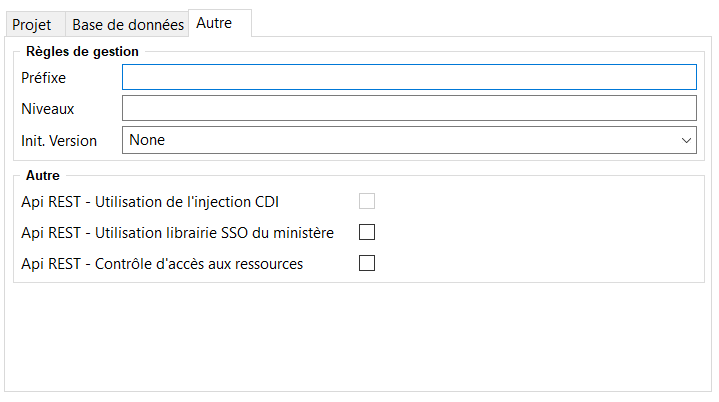
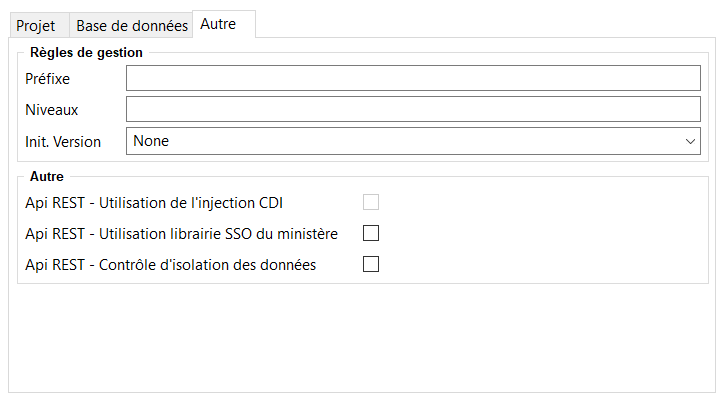
Modifications sur le paragraphe idor...

Changed region(s): [[0.0, 0.0, 0.9791, 0.7164], [0.0, 0.9552, 0.9791, 0.9851]]

diff --git a/pacman-backend.html b/pacman-backend.html
@@ -121,7 +121,7 @@ span.linenos.special { color: #000000; background-color: #ffffc0; padding-left: 
 <li>11/05/2026 : Ajouts : Génération des tests fonctionnels d'API.</li>
 <li>24/05/2026 : Ajouts : Complétion du stockage S3 avec versionning/retention/immutabilité.</li>
 <li>09/06/2026 : Ajouts : Mise en place des traitements asynchrones.</li>
-<li>07/07/2026 : Ajouts : Protection des accès (IDOR)</li>
+<li>07/07/2026 : Ajouts : Protection des paramètres (IDOR)</li>
 </ul>
 <hr/>
 <h2 id="introduction">🚀 Introduction</h2>
@@ -4864,20 +4864,23 @@ Au niveau de l'implémentation pour la récupération du document, on peut remar
 <div align="center">
 <img alt="Architecture S3" src="images/pcm-soa-s3-impl.png" width="500"/>
 </div>
-<h4 id="protection-des-acces-idor">Protection des accès (IDOR)</h4>
+<h4 id="controle-disolation-des-donnees">Contrôle d'isolation des données</h4>
 <p>Une vulnérabilité fréquente des applications Web consiste à faire confiance aux identifiants transmis par le client (URI, paramètres de requête ou corps de requête) sans vérifier que la ressource demandée appartient bien au périmètre de données de l'utilisateur connecté. Ce type de faille est connu sous le nom d'IDOR (Insecure Direct Object Reference) ou plus généralement BOLA (Broken Object Level Authorization) pour les API REST. </p>
 <p>Un scénario typique est le suivant : un utilisateur authentifié consulte la liste de ses contrats et ouvre le contrat n°2358478 via l'URL "<em>/contracts/2358478</em>". S'il modifie manuellement cette URL en "<em>/contracts/2358479</em>" et que le serveur se contente d'effectuer une recherche par identifiant ("<em>findById(2358479)</em>"), il peut, avec un peu de chance, accéder au contrat d'un autre utilisateur. Il ne s'agit pas d'un problème de droits fonctionnels (l'utilisateur est correctement authentifié et possède bien le droit de consulter ses contrats) mais d'un défaut de cloisonnement des données qui permet de sortir du périmètre qui lui est normalement associé.</p>
-<p>Dans <strong>Pacman</strong>, trois solutions sont proposées afin de pallier à cette problématique : </p>
+<p>Dans <strong>Pacman</strong>, quatre solutions sont proposées afin de pallier à cette problématique : </p>
 <p>• Utiliser des identifiants de type UUID (Universally Unique Identifier) en lieu et place d'identifiants numériques séquentiels. Contrairement à un identifiant auto-incrémenté, un UUID est pratiquement impossible à deviner ou à énumérer, ce qui réduit considérablement les risques d'accès opportuniste par simple modification d'une URI. Ainsi, une requête du type "<em>/contrats/2358478</em>" est beaucoup plus facilement falsifiable qu'une requête utilisant un identifiant tel que "<em>/contrats/550e8400-e29b-41d4-a716-446655440000</em>". </p>
 <p>L'utilisation d'UUID constitue donc une première ligne de défense efficace contre les attaques d'énumération d'identifiants (ID Guessing). Toutefois, cette technique ne doit pas être considérée comme un mécanisme de contrôle d'accès. Si un UUID est divulgué ou intercepté, un utilisateur malveillant pourrait toujours tenter de l'utiliser pour accéder à une ressource qui ne lui appartient pas. Les vérifications de cohérence entre la ressource demandée et le périmètre de l'utilisateur demeurent donc indispensables. </p>
 <p>En conséquence, l'utilisation d'UUID doit être envisagée comme une mesure de durcissement complémentaire, venant réduire la surface d'attaque, mais ne se substituant jamais aux mécanismes d'isolation des données et aux contrôles d'autorisation mis en œuvre par l'application.</p>
 <p>• Une autre approche consiste à ne plus utiliser directement les méthodes génériques proposées par les repositories Spring Data JPA, telles que "<em>findById()</em>", "<em>findAll()</em>" ou "<em>findAllById()</em>", mais à réécrire systématiquement les requêtes afin d'y intégrer les critères d'isolation des données. Chaque accès à une ressource est alors effectué au moyen d'une requête spécifique incluant les contraintes de sécurité nécessaires, par exemple en ajoutant un filtre sur l'utilisateur connecté, le locataire (tenant), l'organisation ou tout autre critère définissant le périmètre des données accessibles. </p>
 <p>Cette approche offre un niveau de sécurité très élevé, puisqu'il devient impossible de récupérer une ressource sans appliquer explicitement les règles d'isolation. En contrepartie, elle augmente significativement la quantité de code à produire et à maintenir. </p>
 <p>Les méthodes génériques des repositories ne peuvent plus être utilisées, ce qui conduit à réécrire un grand nombre de requêtes, parfois très proches les unes des autres. Cette solution est particulièrement adaptée aux applications manipulant des données sensibles ou exposées sur Internet, mais elle nécessite une discipline de développement rigoureuse pour imposer systématiquement ces règles d'accès.</p>
+<p>❗ Attention cependant, dans une architecture REST stateless, il est tentant d'utiliser directement les informations contenues dans le mécanisme d'authentification (JWT, jeton OAuth2, SSO, etc.) pour appliquer les règles d'isolation des données. Cette approche présente toutefois une limite importante : les informations portées par le jeton ne correspondent généralement pas aux identifiants métier utilisés par l'application.</p>
+<p>Avant de pouvoir filtrer les données, il est donc souvent nécessaire d'établir une correspondance entre l'identité authentifiée et le périmètre métier réellement autorisé. Cette opération peut nécessiter une ou plusieurs consultations de la base de données ou d'un service externe afin de déterminer les informations d'isolation pertinentes, ce qui est particulièrement coûteux.</p>
+<p>• Une solution permettant de conserver une architecture REST stateless tout en simplifiant les contrôles d'isolation consiste à introduire un jeton interne dédié exclusivement à l'isolation des données. Après authentification de l'utilisateur (SSO, OAuth2, OpenID Connect, etc.), l'application détermine une seule fois le périmètre de données autorisé (identifiants internes, tenant, organisation, établissements, ou tout autre élément nécessaire aux contrôles de cohérence) puis génère un jeton interne signé contenant ces informations. Ce jeton est ensuite transmis par le client à chaque appel REST, en complément ou indépendamment du jeton d'authentification. Chaque requête dispose ainsi immédiatement des informations nécessaires à l'application des règles d'isolation, sans nécessiter de consultation systématique de la base de données pour reconstruire le contexte. Cette approche permet de conserver les bénéfices d'une architecture stateless tout en découplant les mécanismes d'authentification des mécanismes d'isolation des données. Elle impose en revanche de garantir l'intégrité, l'authenticité et, si nécessaire, la durée de validité de ce jeton interne afin d'éviter toute falsification ou utilisation au-delà de son périmètre temporel.</p>
 <p>• <strong>Pacman</strong> propose une option de génération permettant de renforcer automatiquement ce cloisonnement des données. Lorsqu'elle est activée, le générateur ne considère plus l'identifiant reçu comme une information suffisante pour accéder à une ressource. Toutes les opérations d'accès aux données (consultation, modification, suppression, etc.) sont générées de manière à vérifier que l'objet recherché appartient bien au contexte de l'utilisateur connecté. </p>
 <p>Lorsque cette relation de rattachement peut être déduite du modèle (par exemple un contrat rattaché à un client, lui-même associé à l'utilisateur), les requêtes générées sont automatiquement filtrées afin que seules les données appartenant au périmètre de l'utilisateur puissent être retournées. Ainsi, une tentative de modification d'identifiant dans une URI ne permet plus d'accéder à une ressource étrangère, même si son identifiant est connu ou deviné.</p>
 <p>Cette protection est volontairement distincte de la gestion des autorisations métier. Les rôles, profils, habilitations ou permissions définissent ce qu'un utilisateur est autorisé à faire (consulter, créer, modifier ou supprimer un type de ressource). L'isolation des données, quant à elle, garantit que les ressources manipulées appartiennent bien au périmètre de cet utilisateur. Ces deux mécanismes sont complémentaires : une application peut parfaitement vérifier les rôles tout en restant vulnérable aux attaques par modification d'identifiant si elle ne contrôle pas également la cohérence des données accédées.</p>
-<p>❗ Pour activer cette option il est nécessaire de cocher la case "<em>Contrôle d'accès aux ressource</em>" au niveau de l'onglet "<em>Autre</em>" du formulaire de création du projet. Cette option peut aussi être retrouvée au niveau du fichier de configuration <strong>Pacman</strong> (<em>Project.properties</em>) :  </p>
+<p>❗ Pour activer cette option il est nécessaire de cocher la case "<em>Contrôle d'isolation des données</em>" au niveau de l'onglet "<em>Autre</em>" du formulaire de création du projet. Cette option peut aussi être retrouvée au niveau du fichier de configuration <strong>Pacman</strong> (<em>Project.properties</em>) :  </p>
 <div class="codehilite"><pre><span></span><code><span class="c1"># Flag indiquant si le projet ajoute un contrôle sur les paramètres rest</span>
 <span class="na">project.params.control.enabled</span><span class="w"> </span><span class="o">=</span><span class="w"> </span><span class="s">true</span>
 </code></pre></div>
@@ -6180,6 +6183,6 @@ Run<span class="w"> </span><span class="sb">`</span>npm<span class="w"> </span>a
 <span class="c1">// End of user code</span>
 </code></pre></div>
 </main>
-<nav class="local-toc"><ul><li><a href="#introduction">🚀 Introduction</a></li><li><a href="#plugin-et-architecture-hexagonale">🧩 Plugin et architecture hexagonale</a></li><ul><li><a href="#plugin-pacman">Plugin Pacman</a></li><li><a href="#architecture-hexagonale">Architecture hexagonale</a></li><li><a href="#pacman-et-lhexagonal">Pacman et l'hexagonal</a></li></ul><li><a href="#installation">🛠 Installation</a></li><ul><li><a href="#prerequis">Prérequis</a></li><li><a href="#plugins-externes">Plugins externes</a></li><li><a href="#plugin-pacman_1">Plugin Pacman</a></li></ul><li><a href="#creation-du-projet">☕ Création du projet</a></li><ul><li><a href="#wizard-de-creation">Wizard de création</a></li><li><a href="#cas-projet-fournisseur">Cas projet fournisseur</a></li><li><a href="#cas-projet-client-springboot">Cas projet client (SpringBoot)</a></li><li><a href="#cas-projet-client-react">Cas projet client (React)</a></li></ul><li><a href="#fichiers-generes">📝 Fichiers Générés</a></li><ul><li><a href="#cas-projet-fournisseur_1">📁 Cas projet fournisseur</a></li><li><a href="#cas-projet-client-springboot_1">📁 Cas projet client (SpringBoot)</a></li><li><a href="#cas-projet-client-react_1">📁 Cas projet client (React)</a></li></ul><li><a href="#fichiers-de-configuration">📝 Fichiers de configuration</a></li><ul><li><a href="#cas-projet-fournisseur_2">📁 Cas projet fournisseur</a></li><ul><li><a href="#applicationproperties">application.properties</a></li><li><a href="#api-de-sante">Api de santé</a></li><li><a href="#open-api">Open Api</a></li><li><a href="#uris">URIs</a></li><li><a href="#serveur-sso">Serveur SSO</a></li><li><a href="#serveur-http">Serveur HTTP</a></li><li><a href="#logging">Logging</a></li><li><a href="#les-profils">Les profils</a></li><li><a href="#cache">Cache</a></li><li><a href="#circuit-breaker">Circuit-breaker</a></li><li><a href="#coffre-fort">Coffre-fort</a></li><li><a href="#datasources">Datasources</a></li><li><a href="#stockage-s3">Stockage S3</a></li><li><a href="#librairie-sso-du-ministere">Librairie SSO du ministère</a></li><li><a href="#testsproperties">tests.properties</a></li></ul><li><a href="#cas-projet-client-springboot_2">📁 Cas projet client (SpringBoot)</a></li><ul><li><a href="#applicationproperties_1">application.properties</a></li></ul><li><a href="#cas-projet-client-react_2">📁 Cas projet client (React)</a></li><ul><li><a href="#npmignore">.npmignore</a></li><li><a href="#npmrc">.npmrc</a></li><li><a href="#packagejson">package.json</a></li><li><a href="#tsconfigbuildjson">tsconfig.build.json</a></li><li><a href="#tsconfigjson">tsconfig.json</a></li></ul><li><a href="#securisation-de-la-configuration">🔑 Sécurisation de la configuration</a></li><ul><li><a href="#les-variables-denvironnement">Les variables d'environnement</a></li><li><a href="#externaliser-la-configuration">Externaliser la configuration</a></li><li><a href="#utiliser-un-coffre-fort">Utiliser un coffre-fort</a></li></ul></ul><li><a href="#gestion-des-imports">📦 Gestion des imports</a></li><li><a href="#cas-projet-fournisseur_3">📁 Cas projet fournisseur</a></li><ul><li><a href="#generation-de-la-persistance">🛢 Génération de la persistance</a></li><ul><li><a href="#modelisation">Modélisation</a></li><li><a href="#generation">Génération</a></li><li><a href="#tests">Tests</a></li></ul><li><a href="#generation-des-regles-de-gestion">📏 Génération des règles de gestion</a></li><ul><li><a href="#modelisation_1">Modélisation</a></li><li><a href="#generation_1">Génération</a></li></ul><li><a href="#generation-des-services">🌐 Génération des services</a></li><ul><li><a href="#modelisation_2">Modélisation</a></li><li><a href="#generation_2">Génération</a></li><li><a href="#tests_1">Tests</a></li></ul><li><a href="#generation-du-peuplement-de-la-base">Génération du peuplement de la base</a></li><ul><li><a href="#generation_3">Génération</a></li><li><a href="#tests_2">Tests</a></li></ul><li><a href="#gestion-des-champs-automatiques">➕ Gestion des champs automatiques</a></li><ul><li><a href="#champs-predefinis">Champs prédéfinis</a></li><li><a href="#cycle-de-vie">Cycle de vie</a></li></ul><li><a href="#gestion-de-la-securite">🔑 Gestion de la sécurité</a></li><ul><li><a href="#modelisation_3">Modélisation</a></li><li><a href="#generation_4">Génération</a></li><li><a href="#librairie-sso-du-ministere_1">Librairie SSO du ministère</a></li></ul><li><a href="#generation-des-tests-fonctionnels-dapi">🥋 Génération des tests fonctionnels d'API</a></li><ul><li><a href="#le-framework-karate">Le framework Karaté</a></li><li><a href="#creation-des-tests">Création des tests</a></li><li><a href="#initialisation-des-donnees">Initialisation des données</a></li><li><a href="#centralisation-de-tests-communs">Centralisation de tests communs</a></li><li><a href="#resultat-des-tests-reporting">Résultat des tests (reporting)</a></li><li><a href="#exemple-de-scenario-complexe">Exemple de scénario complexe</a></li></ul><li><a href="#generation-des-relations">🧩 Génération des relations</a></li><ul><li><a href="#relation-101">Relation (1)/(0,1)</a></li><li><a href="#relation-01">Relation (0,*)/(1,*)</a></li><li><a href="#relation-recursive-101">Relation récursive (1)/(0,1)</a></li><li><a href="#relation-recursive-01">Relation récursive (0,*)/(1,*)</a></li><li><a href="#relation-bidirectionnelle-01">Relation bidirectionnelle (0,*)/(1,*)</a></li><li><a href="#relation-01-et-objets-metier">Relation (0,*)/(1,*) et objets métier</a></li></ul><li><a href="#documentation-open-api">🔧 Documentation Open Api</a></li><ul><li><a href="#documentation-generale">Documentation générale</a></li><li><a href="#documentation-des-services">Documentation des services</a></li><li><a href="#documentation-pour-les-objets-serialises">Documentation pour les objets sérialisés</a></li><li><a href="#affichage-et-tests">Affichage et tests</a></li></ul><li><a href="#generation-avancee">📐 Génération avancée</a></li><ul><li><a href="#mise-a-disposition-de-lentity-manager">Mise à disposition de l'entity manager</a></li><li><a href="#utilisation-du-lazy-loading">Utilisation du lazy loading</a></li><li><a href="#utilisation-de-cascade">Utilisation de cascade</a></li><li><a href="#utilisation-des-transactions">Utilisation des transactions</a></li><li><a href="#utilisation-de-lheritage">Utilisation de l'héritage</a></li><li><a href="#exemple-de-modelisation-avancee">Exemple de modélisation avancée</a></li><li><a href="#renvoie-dentites-partielles">Renvoie d'entités partielles</a></li><li><a href="#domaine-et-persistances">Domaine et persistances.</a></li><li><a href="#mise-en-place-dun-service-pagine">Mise en place d'un service paginé</a></li><li><a href="#mise-en-place-du-circuit-breaker">Mise en place du "circuit-breaker"</a></li><li><a href="#mise-en-place-des-traitements-asynchrones">Mise en place des traitements asynchrones</a></li><li><a href="#mise-en-place-du-stockage-s3">Mise en place du stockage S3</a></li><li><a href="#protection-des-acces-idor">Protection des accès (IDOR)</a></li></ul><li><a href="#validation-de-la-modelisation">✔ Validation de la modélisation</a></li><li><a href="#deploiement-de-lapplication">📦 Déploiement de l'application</a></li></ul><li><a href="#cas-projet-client">📁 Cas projet client</a></li><li><a href="#cas-projet-client-springboot_3">📁 Cas projet client (SpringBoot)</a></li><ul><li><a href="#webclient">WebClient</a></li><li><a href="#recuperation-du-fichier-swagger">Récupération du fichier Swagger</a></li><li><a href="#modelisation_4">Modélisation</a></li><li><a href="#generation_5">Génération</a></li><li><a href="#tests_3">Tests</a></li><li><a href="#deploiement">Déploiement</a></li></ul><li><a href="#cas-projet-client-react_3">📁 Cas projet client (React)</a></li><ul><li><a href="#axios">Axios</a></li><li><a href="#modelisation_5">Modélisation</a></li><li><a href="#generation_6">Génération</a></li><li><a href="#deploiement_1">Déploiement</a></li></ul><li><a href="#problemes-courants-et-resolution">❓ Problèmes Courants et Résolution</a></li><li><a href="#annexes">📎 Annexes</a></li><ul><li><a href="#metadonnees-disponibles">Métadonnées disponibles</a></li><li><a href="#regles-de-validation">Règles de validation</a></li><li><a href="#metadonnees-sso">Métadonnées SSO</a></li><li><a href="#exemple-configuration-sso">Exemple configuration SSO</a></li></ul></ul></nav>
+<nav class="local-toc"><ul><li><a href="#introduction">🚀 Introduction</a></li><li><a href="#plugin-et-architecture-hexagonale">🧩 Plugin et architecture hexagonale</a></li><ul><li><a href="#plugin-pacman">Plugin Pacman</a></li><li><a href="#architecture-hexagonale">Architecture hexagonale</a></li><li><a href="#pacman-et-lhexagonal">Pacman et l'hexagonal</a></li></ul><li><a href="#installation">🛠 Installation</a></li><ul><li><a href="#prerequis">Prérequis</a></li><li><a href="#plugins-externes">Plugins externes</a></li><li><a href="#plugin-pacman_1">Plugin Pacman</a></li></ul><li><a href="#creation-du-projet">☕ Création du projet</a></li><ul><li><a href="#wizard-de-creation">Wizard de création</a></li><li><a href="#cas-projet-fournisseur">Cas projet fournisseur</a></li><li><a href="#cas-projet-client-springboot">Cas projet client (SpringBoot)</a></li><li><a href="#cas-projet-client-react">Cas projet client (React)</a></li></ul><li><a href="#fichiers-generes">📝 Fichiers Générés</a></li><ul><li><a href="#cas-projet-fournisseur_1">📁 Cas projet fournisseur</a></li><li><a href="#cas-projet-client-springboot_1">📁 Cas projet client (SpringBoot)</a></li><li><a href="#cas-projet-client-react_1">📁 Cas projet client (React)</a></li></ul><li><a href="#fichiers-de-configuration">📝 Fichiers de configuration</a></li><ul><li><a href="#cas-projet-fournisseur_2">📁 Cas projet fournisseur</a></li><ul><li><a href="#applicationproperties">application.properties</a></li><li><a href="#api-de-sante">Api de santé</a></li><li><a href="#open-api">Open Api</a></li><li><a href="#uris">URIs</a></li><li><a href="#serveur-sso">Serveur SSO</a></li><li><a href="#serveur-http">Serveur HTTP</a></li><li><a href="#logging">Logging</a></li><li><a href="#les-profils">Les profils</a></li><li><a href="#cache">Cache</a></li><li><a href="#circuit-breaker">Circuit-breaker</a></li><li><a href="#coffre-fort">Coffre-fort</a></li><li><a href="#datasources">Datasources</a></li><li><a href="#stockage-s3">Stockage S3</a></li><li><a href="#librairie-sso-du-ministere">Librairie SSO du ministère</a></li><li><a href="#testsproperties">tests.properties</a></li></ul><li><a href="#cas-projet-client-springboot_2">📁 Cas projet client (SpringBoot)</a></li><ul><li><a href="#applicationproperties_1">application.properties</a></li></ul><li><a href="#cas-projet-client-react_2">📁 Cas projet client (React)</a></li><ul><li><a href="#npmignore">.npmignore</a></li><li><a href="#npmrc">.npmrc</a></li><li><a href="#packagejson">package.json</a></li><li><a href="#tsconfigbuildjson">tsconfig.build.json</a></li><li><a href="#tsconfigjson">tsconfig.json</a></li></ul><li><a href="#securisation-de-la-configuration">🔑 Sécurisation de la configuration</a></li><ul><li><a href="#les-variables-denvironnement">Les variables d'environnement</a></li><li><a href="#externaliser-la-configuration">Externaliser la configuration</a></li><li><a href="#utiliser-un-coffre-fort">Utiliser un coffre-fort</a></li></ul></ul><li><a href="#gestion-des-imports">📦 Gestion des imports</a></li><li><a href="#cas-projet-fournisseur_3">📁 Cas projet fournisseur</a></li><ul><li><a href="#generation-de-la-persistance">🛢 Génération de la persistance</a></li><ul><li><a href="#modelisation">Modélisation</a></li><li><a href="#generation">Génération</a></li><li><a href="#tests">Tests</a></li></ul><li><a href="#generation-des-regles-de-gestion">📏 Génération des règles de gestion</a></li><ul><li><a href="#modelisation_1">Modélisation</a></li><li><a href="#generation_1">Génération</a></li></ul><li><a href="#generation-des-services">🌐 Génération des services</a></li><ul><li><a href="#modelisation_2">Modélisation</a></li><li><a href="#generation_2">Génération</a></li><li><a href="#tests_1">Tests</a></li></ul><li><a href="#generation-du-peuplement-de-la-base">Génération du peuplement de la base</a></li><ul><li><a href="#generation_3">Génération</a></li><li><a href="#tests_2">Tests</a></li></ul><li><a href="#gestion-des-champs-automatiques">➕ Gestion des champs automatiques</a></li><ul><li><a href="#champs-predefinis">Champs prédéfinis</a></li><li><a href="#cycle-de-vie">Cycle de vie</a></li></ul><li><a href="#gestion-de-la-securite">🔑 Gestion de la sécurité</a></li><ul><li><a href="#modelisation_3">Modélisation</a></li><li><a href="#generation_4">Génération</a></li><li><a href="#librairie-sso-du-ministere_1">Librairie SSO du ministère</a></li></ul><li><a href="#generation-des-tests-fonctionnels-dapi">🥋 Génération des tests fonctionnels d'API</a></li><ul><li><a href="#le-framework-karate">Le framework Karaté</a></li><li><a href="#creation-des-tests">Création des tests</a></li><li><a href="#initialisation-des-donnees">Initialisation des données</a></li><li><a href="#centralisation-de-tests-communs">Centralisation de tests communs</a></li><li><a href="#resultat-des-tests-reporting">Résultat des tests (reporting)</a></li><li><a href="#exemple-de-scenario-complexe">Exemple de scénario complexe</a></li></ul><li><a href="#generation-des-relations">🧩 Génération des relations</a></li><ul><li><a href="#relation-101">Relation (1)/(0,1)</a></li><li><a href="#relation-01">Relation (0,*)/(1,*)</a></li><li><a href="#relation-recursive-101">Relation récursive (1)/(0,1)</a></li><li><a href="#relation-recursive-01">Relation récursive (0,*)/(1,*)</a></li><li><a href="#relation-bidirectionnelle-01">Relation bidirectionnelle (0,*)/(1,*)</a></li><li><a href="#relation-01-et-objets-metier">Relation (0,*)/(1,*) et objets métier</a></li></ul><li><a href="#documentation-open-api">🔧 Documentation Open Api</a></li><ul><li><a href="#documentation-generale">Documentation générale</a></li><li><a href="#documentation-des-services">Documentation des services</a></li><li><a href="#documentation-pour-les-objets-serialises">Documentation pour les objets sérialisés</a></li><li><a href="#affichage-et-tests">Affichage et tests</a></li></ul><li><a href="#generation-avancee">📐 Génération avancée</a></li><ul><li><a href="#mise-a-disposition-de-lentity-manager">Mise à disposition de l'entity manager</a></li><li><a href="#utilisation-du-lazy-loading">Utilisation du lazy loading</a></li><li><a href="#utilisation-de-cascade">Utilisation de cascade</a></li><li><a href="#utilisation-des-transactions">Utilisation des transactions</a></li><li><a href="#utilisation-de-lheritage">Utilisation de l'héritage</a></li><li><a href="#exemple-de-modelisation-avancee">Exemple de modélisation avancée</a></li><li><a href="#renvoie-dentites-partielles">Renvoie d'entités partielles</a></li><li><a href="#domaine-et-persistances">Domaine et persistances.</a></li><li><a href="#mise-en-place-dun-service-pagine">Mise en place d'un service paginé</a></li><li><a href="#mise-en-place-du-circuit-breaker">Mise en place du "circuit-breaker"</a></li><li><a href="#mise-en-place-des-traitements-asynchrones">Mise en place des traitements asynchrones</a></li><li><a href="#mise-en-place-du-stockage-s3">Mise en place du stockage S3</a></li><li><a href="#controle-disolation-des-donnees">Contrôle d'isolation des données</a></li></ul><li><a href="#validation-de-la-modelisation">✔ Validation de la modélisation</a></li><li><a href="#deploiement-de-lapplication">📦 Déploiement de l'application</a></li></ul><li><a href="#cas-projet-client">📁 Cas projet client</a></li><li><a href="#cas-projet-client-springboot_3">📁 Cas projet client (SpringBoot)</a></li><ul><li><a href="#webclient">WebClient</a></li><li><a href="#recuperation-du-fichier-swagger">Récupération du fichier Swagger</a></li><li><a href="#modelisation_4">Modélisation</a></li><li><a href="#generation_5">Génération</a></li><li><a href="#tests_3">Tests</a></li><li><a href="#deploiement">Déploiement</a></li></ul><li><a href="#cas-projet-client-react_3">📁 Cas projet client (React)</a></li><ul><li><a href="#axios">Axios</a></li><li><a href="#modelisation_5">Modélisation</a></li><li><a href="#generation_6">Génération</a></li><li><a href="#deploiement_1">Déploiement</a></li></ul><li><a href="#problemes-courants-et-resolution">❓ Problèmes Courants et Résolution</a></li><li><a href="#annexes">📎 Annexes</a></li><ul><li><a href="#metadonnees-disponibles">Métadonnées disponibles</a></li><li><a href="#regles-de-validation">Règles de validation</a></li><li><a href="#metadonnees-sso">Métadonnées SSO</a></li><li><a href="#exemple-configuration-sso">Exemple configuration SSO</a></li></ul></ul></nav>
 </body>
 </html>

diff --git a/pacman-backend.md b/pacman-backend.md
@@ -14,7 +14,7 @@
 - 11/05/2026 : Ajouts : Génération des tests fonctionnels d'API.
 - 24/05/2026 : Ajouts : Complétion du stockage S3 avec versionning/retention/immutabilité.
 - 09/06/2026 : Ajouts : Mise en place des traitements asynchrones.
-- 07/07/2026 : Ajouts : Protection des accès (IDOR)
+- 07/07/2026 : Ajouts : Protection des paramètres (IDOR)
 ---
 
 ## 🚀 Introduction
@@ -5705,13 +5705,13 @@ Un bref shéma récapitulatif explique le fonctionnement de cette implémentatio
 </div>
 
 
-#### Protection des accès (IDOR)
+#### Contrôle d'isolation des données
 
 Une vulnérabilité fréquente des applications Web consiste à faire confiance aux identifiants transmis par le client (URI, paramètres de requête ou corps de requête) sans vérifier que la ressource demandée appartient bien au périmètre de données de l'utilisateur connecté. Ce type de faille est connu sous le nom d'IDOR (Insecure Direct Object Reference) ou plus généralement BOLA (Broken Object Level Authorization) pour les API REST. 
 
 Un scénario typique est le suivant : un utilisateur authentifié consulte la liste de ses contrats et ouvre le contrat n°2358478 via l'URL "*/contracts/2358478*". S'il modifie manuellement cette URL en "*/contracts/2358479*" et que le serveur se contente d'effectuer une recherche par identifiant ("*findById(2358479)*"), il peut, avec un peu de chance, accéder au contrat d'un autre utilisateur. Il ne s'agit pas d'un problème de droits fonctionnels (l'utilisateur est correctement authentifié et possède bien le droit de consulter ses contrats) mais d'un défaut de cloisonnement des données qui permet de sortir du périmètre qui lui est normalement associé.
 
-Dans **Pacman**, trois solutions sont proposées afin de pallier à cette problématique : 
+Dans **Pacman**, quatre solutions sont proposées afin de pallier à cette problématique : 
 
 • Utiliser des identifiants de type UUID (Universally Unique Identifier) en lieu et place d'identifiants numériques séquentiels. Contrairement à un identifiant auto-incrémenté, un UUID est pratiquement impossible à deviner ou à énumérer, ce qui réduit considérablement les risques d'accès opportuniste par simple modification d'une URI. Ainsi, une requête du type "*/contrats/2358478*" est beaucoup plus facilement falsifiable qu'une requête utilisant un identifiant tel que "*/contrats/550e8400-e29b-41d4-a716-446655440000*". 
 
@@ -5725,13 +5725,19 @@ Cette approche offre un niveau de sécurité très élevé, puisqu'il devient im
 
 Les méthodes génériques des repositories ne peuvent plus être utilisées, ce qui conduit à réécrire un grand nombre de requêtes, parfois très proches les unes des autres. Cette solution est particulièrement adaptée aux applications manipulant des données sensibles ou exposées sur Internet, mais elle nécessite une discipline de développement rigoureuse pour imposer systématiquement ces règles d'accès.
 
+❗ Attention cependant, dans une architecture REST stateless, il est tentant d'utiliser directement les informations contenues dans le mécanisme d'authentification (JWT, jeton OAuth2, SSO, etc.) pour appliquer les règles d'isolation des données. Cette approche présente toutefois une limite importante : les informations portées par le jeton ne correspondent généralement pas aux identifiants métier utilisés par l'application.
+
+Avant de pouvoir filtrer les données, il est donc souvent nécessaire d'établir une correspondance entre l'identité authentifiée et le périmètre métier réellement autorisé. Cette opération peut nécessiter une ou plusieurs consultations de la base de données ou d'un service externe afin de déterminer les informations d'isolation pertinentes, ce qui est particulièrement coûteux.
+
+• Une solution permettant de conserver une architecture REST stateless tout en simplifiant les contrôles d'isolation consiste à introduire un jeton interne dédié exclusivement à l'isolation des données. Après authentification de l'utilisateur (SSO, OAuth2, OpenID Connect, etc.), l'application détermine une seule fois le périmètre de données autorisé (identifiants internes, tenant, organisation, établissements, ou tout autre élément nécessaire aux contrôles de cohérence) puis génère un jeton interne signé contenant ces informations. Ce jeton est ensuite transmis par le client à chaque appel REST, en complément ou indépendamment du jeton d'authentification. Chaque requête dispose ainsi immédiatement des informations nécessaires à l'application des règles d'isolation, sans nécessiter de consultation systématique de la base de données pour reconstruire le contexte. Cette approche permet de conserver les bénéfices d'une architecture stateless tout en découplant les mécanismes d'authentification des mécanismes d'isolation des données. Elle impose en revanche de garantir l'intégrité, l'authenticité et, si nécessaire, la durée de validité de ce jeton interne afin d'éviter toute falsification ou utilisation au-delà de son périmètre temporel.
+
 • **Pacman** propose une option de génération permettant de renforcer automatiquement ce cloisonnement des données. Lorsqu'elle est activée, le générateur ne considère plus l'identifiant reçu comme une information suffisante pour accéder à une ressource. Toutes les opérations d'accès aux données (consultation, modification, suppression, etc.) sont générées de manière à vérifier que l'objet recherché appartient bien au contexte de l'utilisateur connecté. 
 
 Lorsque cette relation de rattachement peut être déduite du modèle (par exemple un contrat rattaché à un client, lui-même associé à l'utilisateur), les requêtes générées sont automatiquement filtrées afin que seules les données appartenant au périmètre de l'utilisateur puissent être retournées. Ainsi, une tentative de modification d'identifiant dans une URI ne permet plus d'accéder à une ressource étrangère, même si son identifiant est connu ou deviné.
 
 Cette protection est volontairement distincte de la gestion des autorisations métier. Les rôles, profils, habilitations ou permissions définissent ce qu'un utilisateur est autorisé à faire (consulter, créer, modifier ou supprimer un type de ressource). L'isolation des données, quant à elle, garantit que les ressources manipulées appartiennent bien au périmètre de cet utilisateur. Ces deux mécanismes sont complémentaires : une application peut parfaitement vérifier les rôles tout en restant vulnérable aux attaques par modification d'identifiant si elle ne contrôle pas également la cohérence des données accédées.
 
-❗ Pour activer cette option il est nécessaire de cocher la case "*Contrôle d'accès aux ressource*" au niveau de l'onglet "*Autre*" du formulaire de création du projet. Cette option peut aussi être retrouvée au niveau du fichier de configuration **Pacman** (*Project.properties*) :  
+❗ Pour activer cette option il est nécessaire de cocher la case "*Contrôle d'isolation des données*" au niveau de l'onglet "*Autre*" du formulaire de création du projet. Cette option peut aussi être retrouvée au niveau du fichier de configuration **Pacman** (*Project.properties*) :  
 
 ```properties
 # Flag indiquant si le projet ajoute un contrôle sur les paramètres rest
